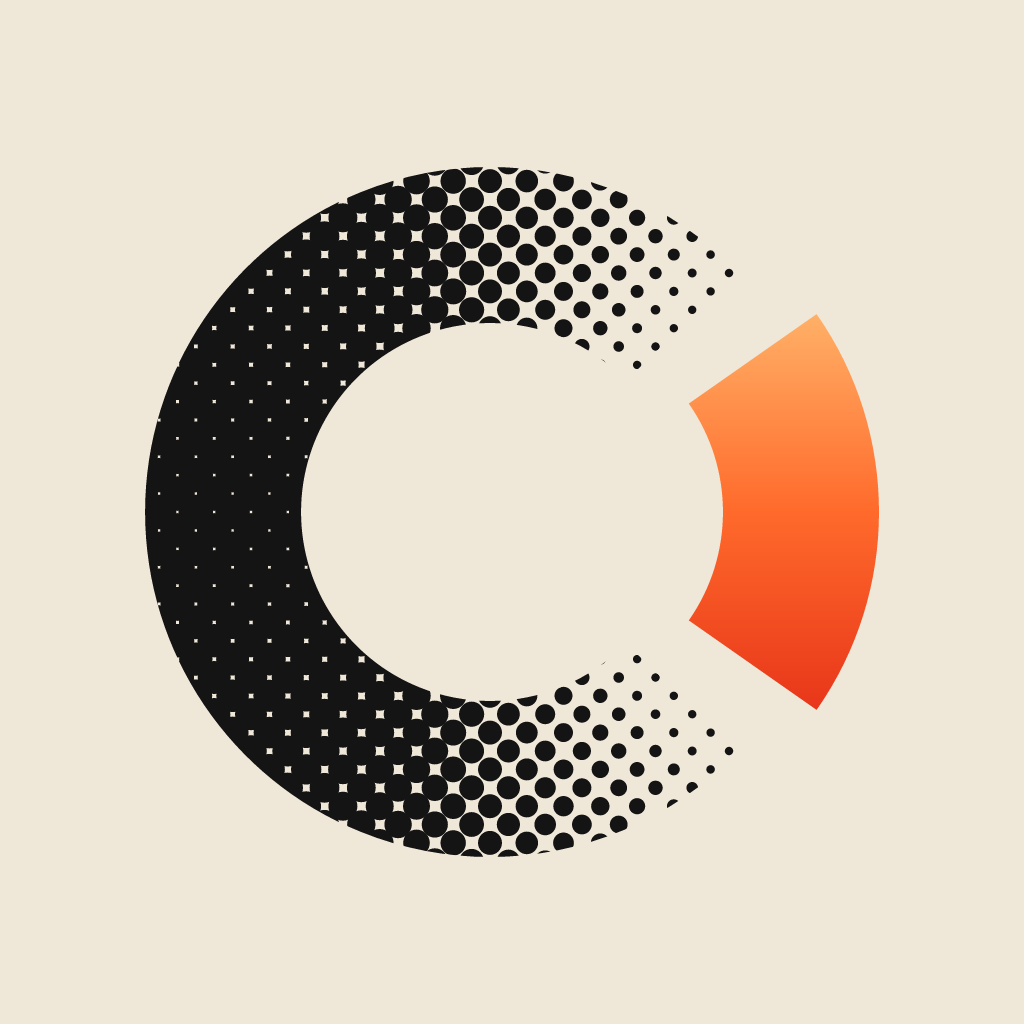
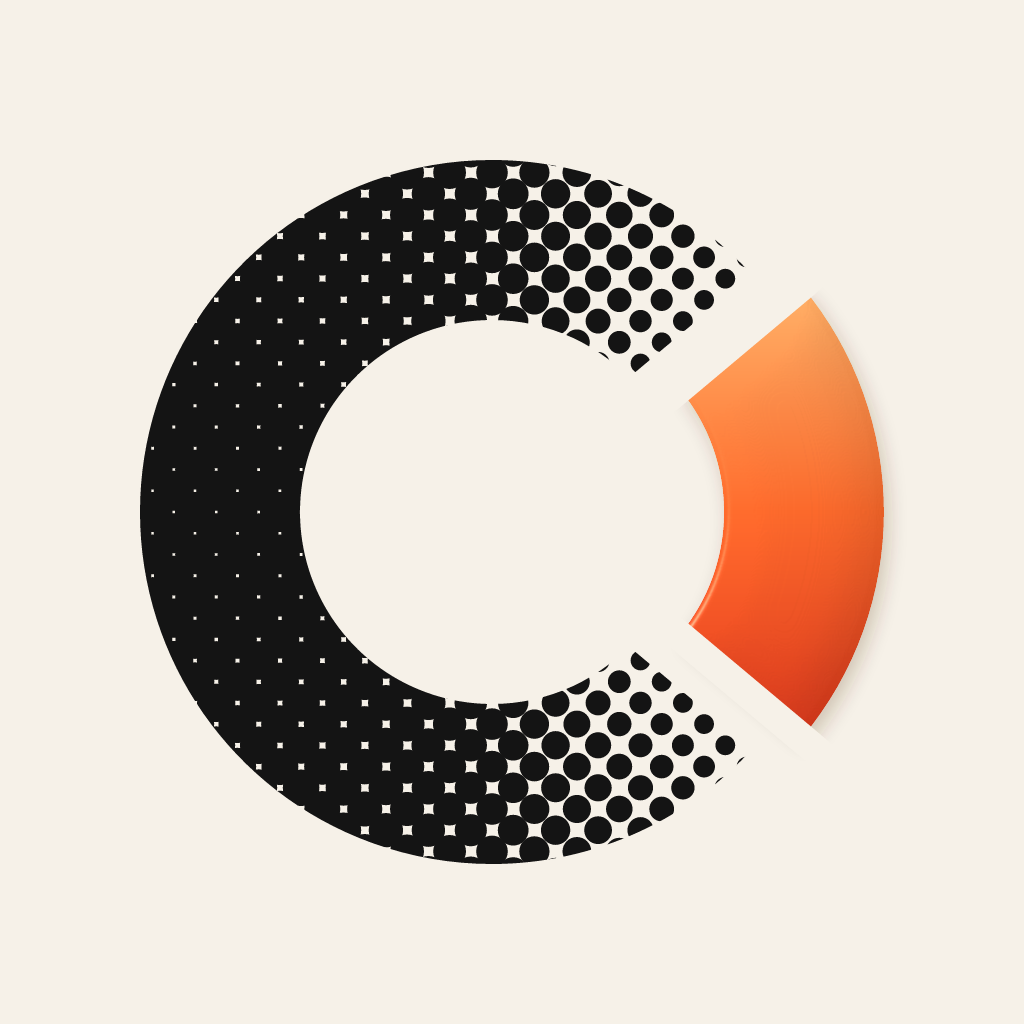
Use the balanced 3D mark, with a light mode version
The piece now shares the C's center and radii and both cuts are the same width; the halftone is
slightly sparser and keeps the C's tips visible. Adds the 500 px avatar export.

diff --git a/brand/README.md b/brand/README.md
@@ -1,13 +1,14 @@
 # Curate Technologies mark
 
-A C drawn in halftone dots, solid at its back and dissolving toward both tips, with the piece that
-closes it pulled out and rendered in a vermilion-to-apricot gradient. The dots are the raw material;
-the pulled piece is the one that got chosen.
+A C drawn in halftone dots, solid at its back and thinning toward both tips, with the piece that closes
+it cut out and slid straight out, rendered in a vermilion-to-apricot gradient with light and depth. The
+flat dots are the raw material; the lit piece is the one that got chosen. The C and the piece share one
+center and the same radii, and both cuts are the same width.
 
 | File | Use |
 | --- | --- |
 | `curate-mark-ink.svg` / `-1024.png` | Default, on ink `#141414`. GitHub avatar. |
-| `curate-mark-bone.svg` / `-1024.png` | Light grounds, on bone `#EFE7D8`. |
-| `curate-avatar-460.png` | GitHub org avatar upload size. |
+| `curate-mark-bone.svg` / `-1024.png` | Light mode, on paper `#F6F1E8`. |
+| `curate-avatar-500.png` | GitHub org avatar upload (GitHub does not accept SVG avatars). |
 
 Colors: ink `#141414`, bone `#EFE7D8`, piece gradient `#E8361A` → `#FF6A2B` → `#FFB067` (bottom to top).
